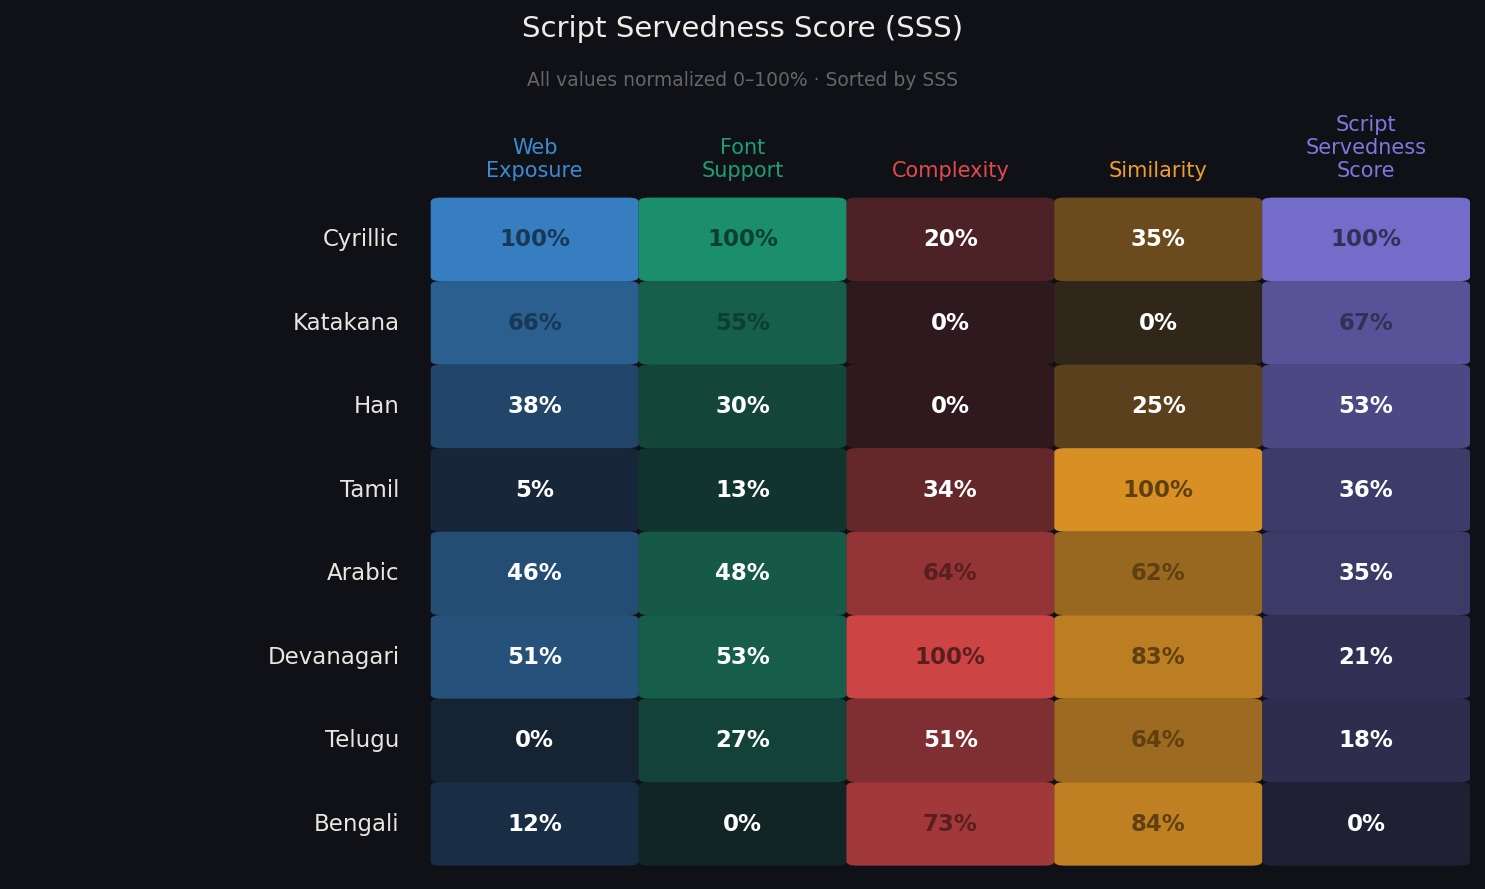
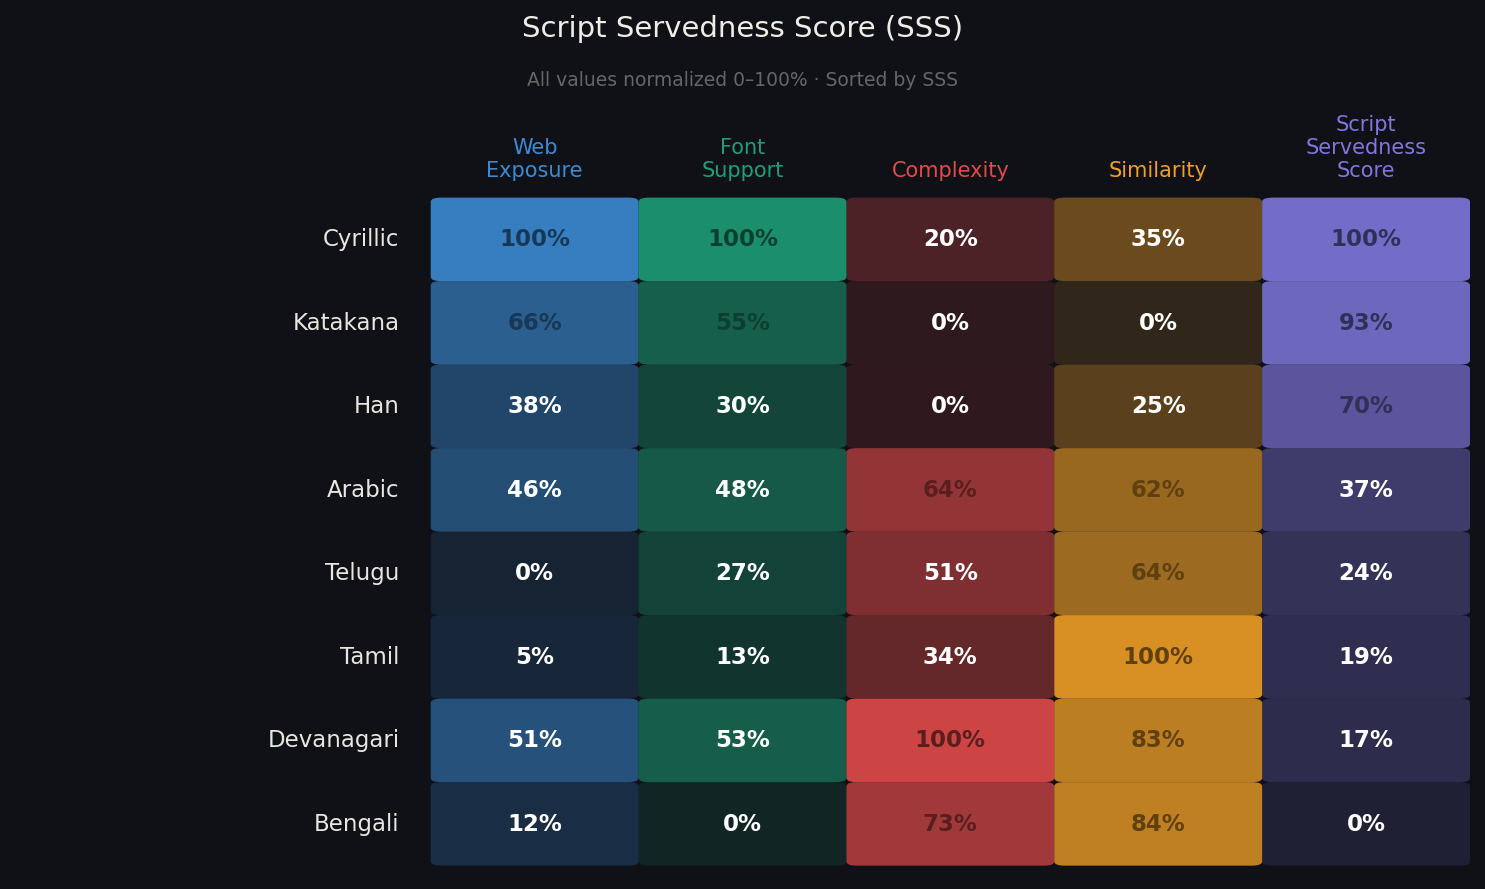
fix to sss score

diff --git a/data/viz/heatmap.html b/data/viz/heatmap.html
@@ -148,7 +148,7 @@
 <div class="tooltip" id="tooltip"></div>
 
 <script>
-const data = [{"script": "Cyrillic", "cells": [{"norm": 1.0, "raw": "2,623,937", "label": "Web Exposure", "color": "#3B8BD4"}, {"norm": 1.0, "raw": "293", "label": "Font Support", "color": "#1D9E75"}, {"norm": 0.1969, "raw": "0.167", "label": "Complexity", "color": "#E24B4A"}, {"norm": 0.3525, "raw": "0.353", "label": "Similarity", "color": "#EF9F27"}, {"norm": 1.0, "raw": "2.459", "label": "SSS", "color": "#7F77DD"}]}, {"script": "Katakana", "cells": [{"norm": 0.6649, "raw": "434,832", "label": "Web Exposure", "color": "#3B8BD4"}, {"norm": 0.5505, "raw": "67", "label": "Font Support", "color": "#1D9E75"}, {"norm": 0.0, "raw": "0.000", "label": "Complexity", "color": "#E24B4A"}, {"norm": 0.0, "raw": "0.000", "label": "Similarity", "color": "#EF9F27"}, {"norm": 0.6718, "raw": "1.491", "label": "SSS", "color": "#7F77DD"}]}, {"script": "Han", "cells": [{"norm": 0.384, "raw": "96,340", "label": "Web Exposure", "color": "#3B8BD4"}, {"norm": 0.2953, "raw": "29", "label": "Font Support", "color": "#1D9E75"}, {"norm": 0.0022, "raw": "0.002", "label": "Complexity", "color": "#E24B4A"}, {"norm": 0.2509, "raw": "0.251", "label": "Similarity", "color": "#EF9F27"}, {"norm": 0.5304, "raw": "1.074", "label": "SSS", "color": "#7F77DD"}]}, {"script": "Tamil", "cells": [{"norm": 0.0461, "raw": "15,721", "label": "Web Exposure", "color": "#3B8BD4"}, {"norm": 0.1326, "raw": "17", "label": "Font Support", "color": "#1D9E75"}, {"norm": 0.343, "raw": "0.290", "label": "Complexity", "color": "#E24B4A"}, {"norm": 1.0, "raw": "1.000", "label": "Similarity", "color": "#EF9F27"}, {"norm": 0.356, "raw": "0.559", "label": "SSS", "color": "#7F77DD"}]}, {"script": "Arabic", "cells": [{"norm": 0.4609, "raw": "145,526", "label": "Web Exposure", "color": "#3B8BD4"}, {"norm": 0.4848, "raw": "54", "label": "Font Support", "color": "#1D9E75"}, {"norm": 0.6384, "raw": "0.541", "label": "Complexity", "color": "#E24B4A"}, {"norm": 0.6189, "raw": "0.619", "label": "Similarity", "color": "#EF9F27"}, {"norm": 0.3462, "raw": "0.530", "label": "SSS", "color": "#7F77DD"}]}, {"script": "Devanagari", "cells": [{"norm": 0.5135, "raw": "192,989", "label": "Web Exposure", "color": "#3B8BD4"}, {"norm": 0.5268, "raw": "62", "label": "Font Support", "color": "#1D9E75"}, {"norm": 1.0, "raw": "0.847", "label": "Complexity", "color": "#E24B4A"}, {"norm": 0.834, "raw": "0.834", "label": "Similarity", "color": "#EF9F27"}, {"norm": 0.2131, "raw": "0.138", "label": "SSS", "color": "#7F77DD"}]}, {"script": "Telugu", "cells": [{"norm": 0.0, "raw": "12,278", "label": "Web Exposure", "color": "#3B8BD4"}, {"norm": 0.2736, "raw": "27", "label": "Font Support", "color": "#1D9E75"}, {"norm": 0.511, "raw": "0.433", "label": "Complexity", "color": "#E24B4A"}, {"norm": 0.6417, "raw": "0.642", "label": "Similarity", "color": "#EF9F27"}, {"norm": 0.1766, "raw": "0.030", "label": "SSS", "color": "#7F77DD"}]}, {"script": "Bengali", "cells": [{"norm": 0.1171, "raw": "23,006", "label": "Web Exposure", "color": "#3B8BD4"}, {"norm": 0.0, "raw": "11", "label": "Font Support", "color": "#1D9E75"}, {"norm": 0.7264, "raw": "0.615", "label": "Complexity", "color": "#E24B4A"}, {"norm": 0.8448, "raw": "0.845", "label": "Similarity", "color": "#EF9F27"}, {"norm": 0.0, "raw": "-0.491", "label": "SSS", "color": "#7F77DD"}]}];
+const data = [{"script": "Cyrillic", "cells": [{"norm": 1.0, "raw": "2,623,937", "label": "Web Exposure", "color": "#3B8BD4"}, {"norm": 1.0, "raw": "293", "label": "Font Support", "color": "#1D9E75"}, {"norm": 0.1969, "raw": "0.167", "label": "Complexity", "color": "#E24B4A"}, {"norm": 0.3525, "raw": "0.353", "label": "Similarity", "color": "#EF9F27"}, {"norm": 1.0, "raw": "1.754", "label": "SSS", "color": "#7F77DD"}]}, {"script": "Katakana", "cells": [{"norm": 0.6649, "raw": "434,832", "label": "Web Exposure", "color": "#3B8BD4"}, {"norm": 0.5505, "raw": "67", "label": "Font Support", "color": "#1D9E75"}, {"norm": 0.0, "raw": "0.000", "label": "Complexity", "color": "#E24B4A"}, {"norm": 0.0, "raw": "0.000", "label": "Similarity", "color": "#EF9F27"}, {"norm": 0.9331, "raw": "1.491", "label": "SSS", "color": "#7F77DD"}]}, {"script": "Han", "cells": [{"norm": 0.384, "raw": "96,340", "label": "Web Exposure", "color": "#3B8BD4"}, {"norm": 0.2953, "raw": "29", "label": "Font Support", "color": "#1D9E75"}, {"norm": 0.0022, "raw": "0.002", "label": "Complexity", "color": "#E24B4A"}, {"norm": 0.2509, "raw": "0.251", "label": "Similarity", "color": "#EF9F27"}, {"norm": 0.6996, "raw": "0.572", "label": "SSS", "color": "#7F77DD"}]}, {"script": "Arabic", "cells": [{"norm": 0.4609, "raw": "145,526", "label": "Web Exposure", "color": "#3B8BD4"}, {"norm": 0.4848, "raw": "54", "label": "Font Support", "color": "#1D9E75"}, {"norm": 0.6384, "raw": "0.541", "label": "Complexity", "color": "#E24B4A"}, {"norm": 0.6189, "raw": "0.619", "label": "Similarity", "color": "#EF9F27"}, {"norm": 0.3744, "raw": "-0.708", "label": "SSS", "color": "#7F77DD"}]}, {"script": "Telugu", "cells": [{"norm": 0.0, "raw": "12,278", "label": "Web Exposure", "color": "#3B8BD4"}, {"norm": 0.2736, "raw": "27", "label": "Font Support", "color": "#1D9E75"}, {"norm": 0.511, "raw": "0.433", "label": "Complexity", "color": "#E24B4A"}, {"norm": 0.6417, "raw": "0.642", "label": "Similarity", "color": "#EF9F27"}, {"norm": 0.2357, "raw": "-1.253", "label": "SSS", "color": "#7F77DD"}]}, {"script": "Tamil", "cells": [{"norm": 0.0461, "raw": "15,721", "label": "Web Exposure", "color": "#3B8BD4"}, {"norm": 0.1326, "raw": "17", "label": "Font Support", "color": "#1D9E75"}, {"norm": 0.343, "raw": "0.290", "label": "Complexity", "color": "#E24B4A"}, {"norm": 1.0, "raw": "1.000", "label": "Similarity", "color": "#EF9F27"}, {"norm": 0.188, "raw": "-1.441", "label": "SSS", "color": "#7F77DD"}]}, {"script": "Devanagari", "cells": [{"norm": 0.5135, "raw": "192,989", "label": "Web Exposure", "color": "#3B8BD4"}, {"norm": 0.5268, "raw": "62", "label": "Font Support", "color": "#1D9E75"}, {"norm": 1.0, "raw": "0.847", "label": "Complexity", "color": "#E24B4A"}, {"norm": 0.834, "raw": "0.834", "label": "Similarity", "color": "#EF9F27"}, {"norm": 0.1653, "raw": "-1.530", "label": "SSS", "color": "#7F77DD"}]}, {"script": "Bengali", "cells": [{"norm": 0.1171, "raw": "23,006", "label": "Web Exposure", "color": "#3B8BD4"}, {"norm": 0.0, "raw": "11", "label": "Font Support", "color": "#1D9E75"}, {"norm": 0.7264, "raw": "0.615", "label": "Complexity", "color": "#E24B4A"}, {"norm": 0.8448, "raw": "0.845", "label": "Similarity", "color": "#EF9F27"}, {"norm": 0.0, "raw": "-2.180", "label": "SSS", "color": "#7F77DD"}]}];
 const metrics = [{"label": "Web Exposure", "desc": "Higher = more readers", "color": "#3B8BD4"}, {"label": "Font Support", "desc": "Higher = more fonts", "color": "#1D9E75"}, {"label": "Complexity", "desc": "Higher = harder to engineer", "color": "#E24B4A"}, {"label": "Similarity", "desc": "Higher = less visual choice", "color": "#EF9F27"}, {"label": "SSS", "desc": "Higher = well served", "color": "#7F77DD"}];
 
 function hexToRgb(hex) {

diff --git a/data_viz/generate_heatmap.py b/data_viz/generate_heatmap.py
@@ -122,10 +122,14 @@ def load_all_data(repo: Path = REPO_ROOT) -> pd.DataFrame:
 
     # Servedness score: high exposure, high support, low complexity, high similarity = well served
     master["sss"] = (
+        # higher means more readers
         master["log_exposure_norm"]
+        # higher means the script has more fonts
         + master["log_support_norm"] * 1.5
+        # higher means more difficult to produce
         - master["complexity_norm"] * 2.0
-        + master["similarity_index_norm"]
+        # higher means less visual choice
+        - master["similarity_index_norm"]
     )
     # Normalize gap score to 0-1
     gs_min, gs_max = master["sss"].min(), master["sss"].max()
